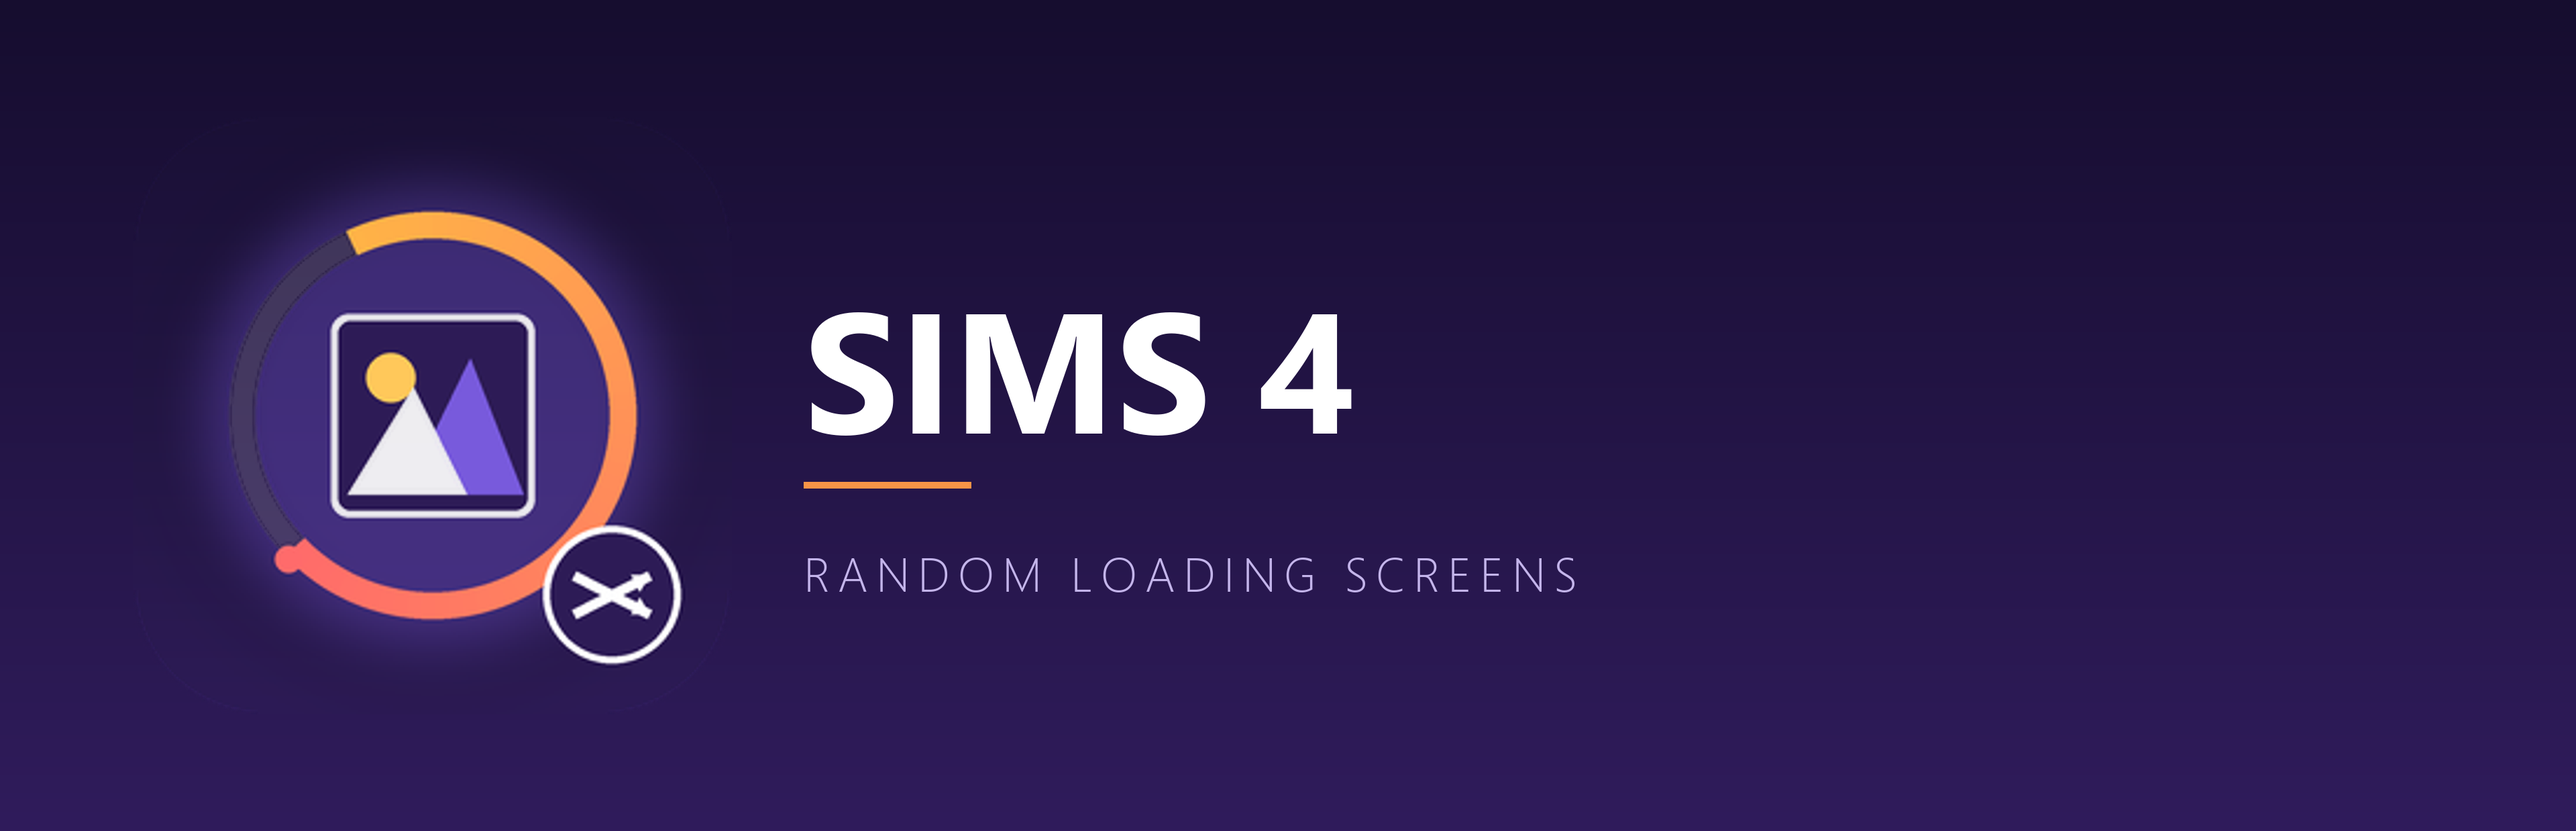
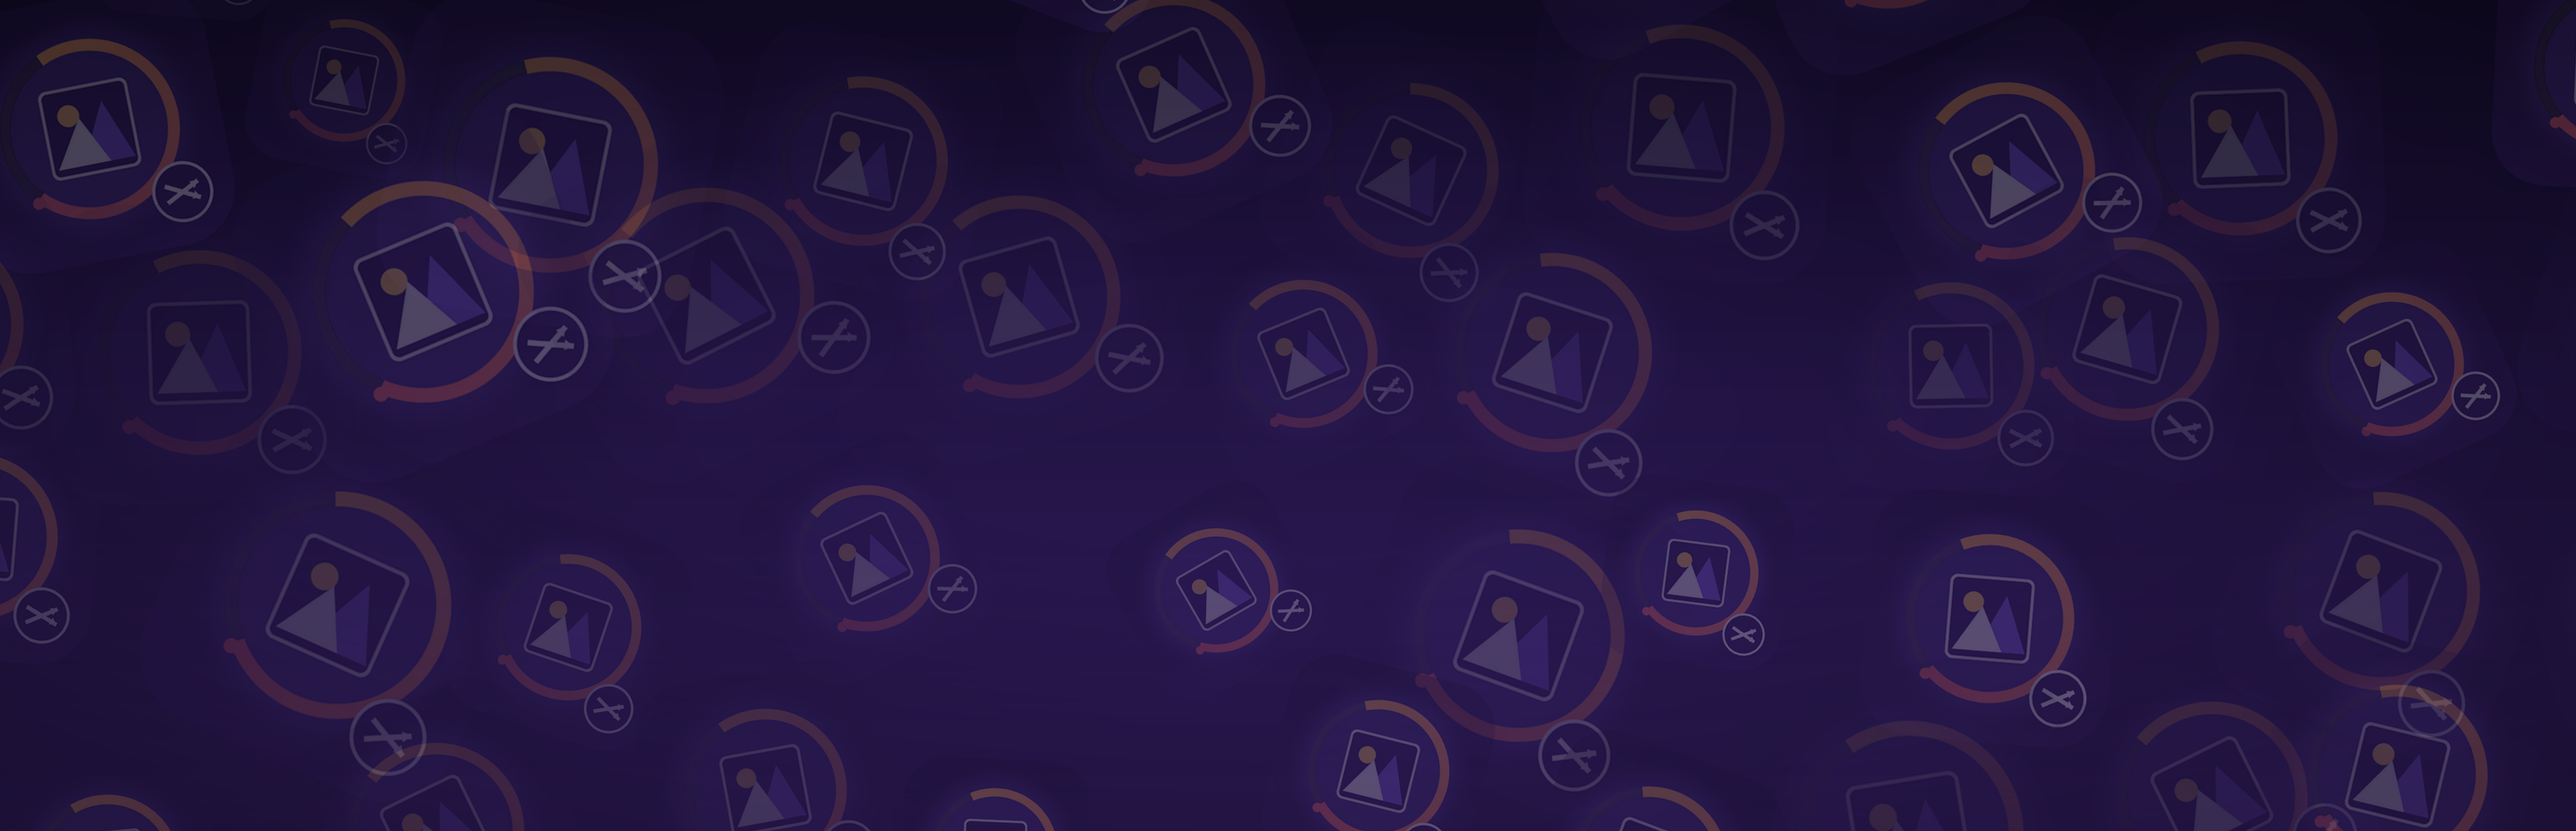
Release v1.3.2
See CHANGELOG.md for details.

diff --git a/CHANGELOG.md b/CHANGELOG.md
@@ -5,6 +5,18 @@ All notable changes to this project are documented here. Versioning follows
 mark breaking config-format/behavior changes, MINOR marks backward-compatible
 feature additions, PATCH marks fixes.
 
+## [1.3.2] - 2026-09-10
+
+### Changed
+- **`assets/steam/background*.png`** — the library hero is now a text-free
+  background made of a scattered pattern of the app icon (or `alt_icon` for
+  the `_alt` variant), since Steam draws the logo/title over the hero
+  separately; it no longer duplicates the "SIMS 4 / RANDOM LOADING SCREENS"
+  wordmark itself.
+- **`assets/steam/cover*.png`, `wide_cover*.png`** — now use the same
+  scattered icon pattern as their background, behind the existing
+  icon/title/subtitle artwork, instead of a plain gradient.
+
 ## [1.3.1] - 2026-09-10
 
 ### Removed

diff --git a/VERSION.md b/VERSION.md
@@ -1,1 +1,1 @@
-1.3.1
+1.3.2
